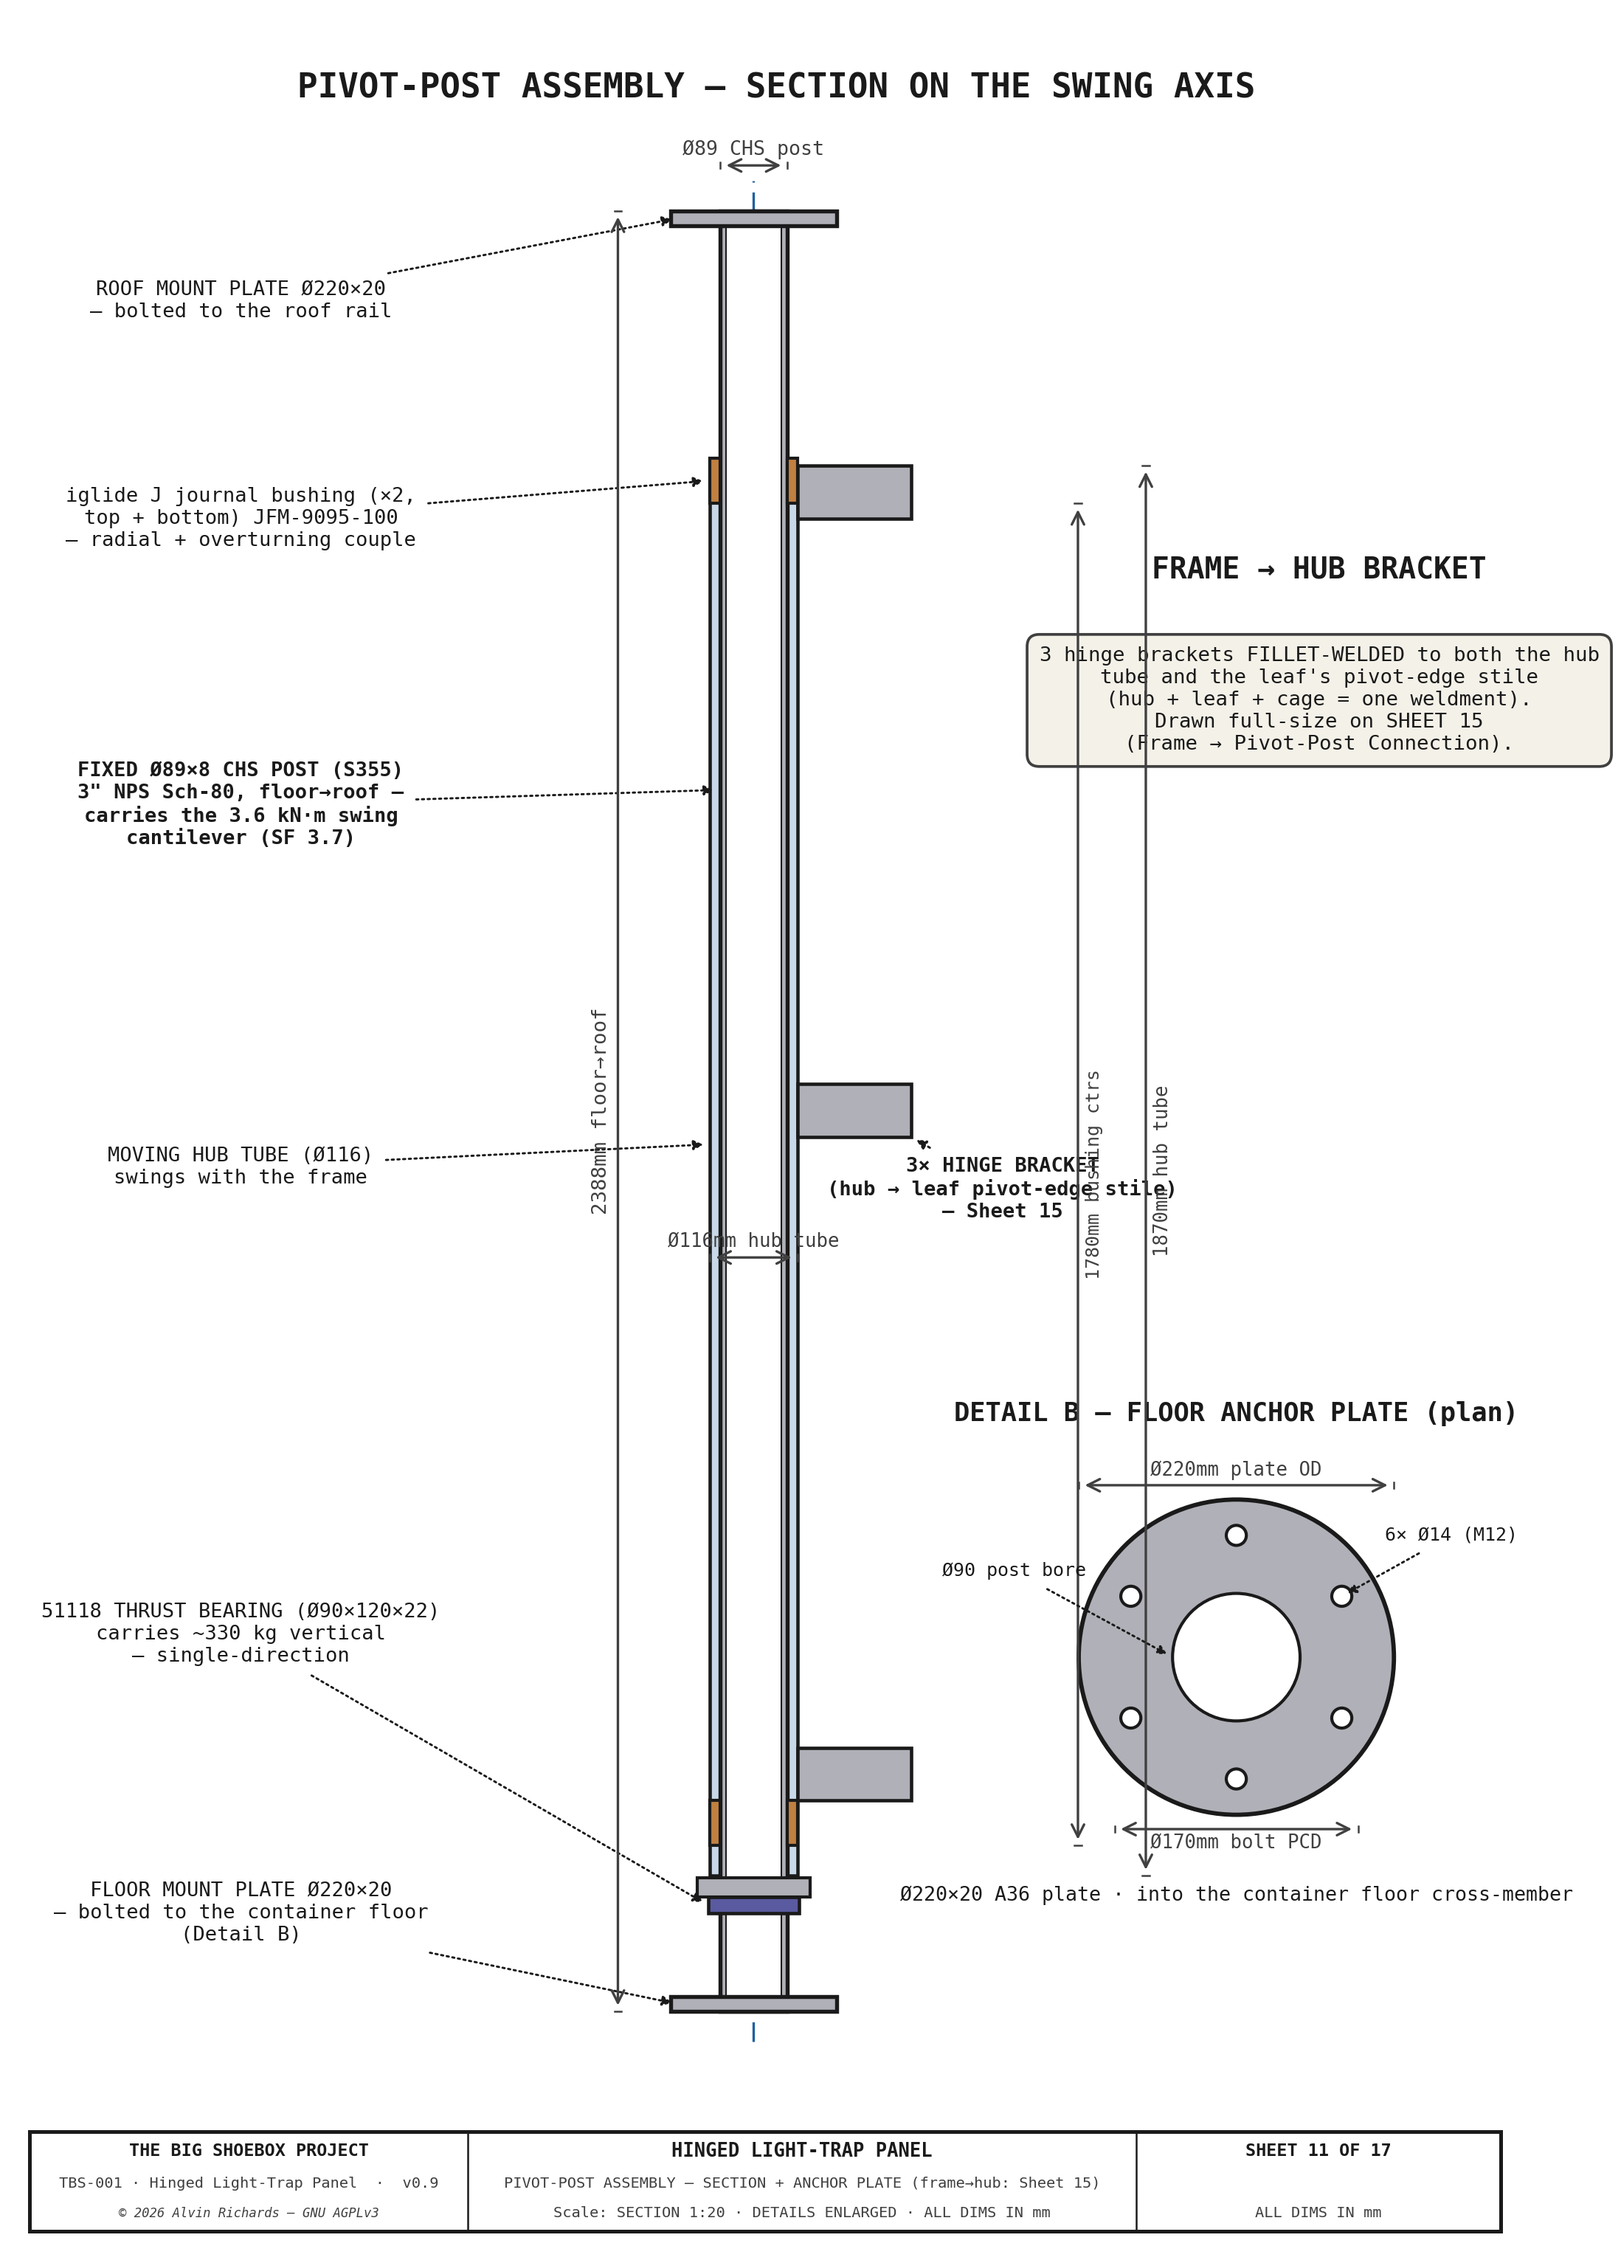
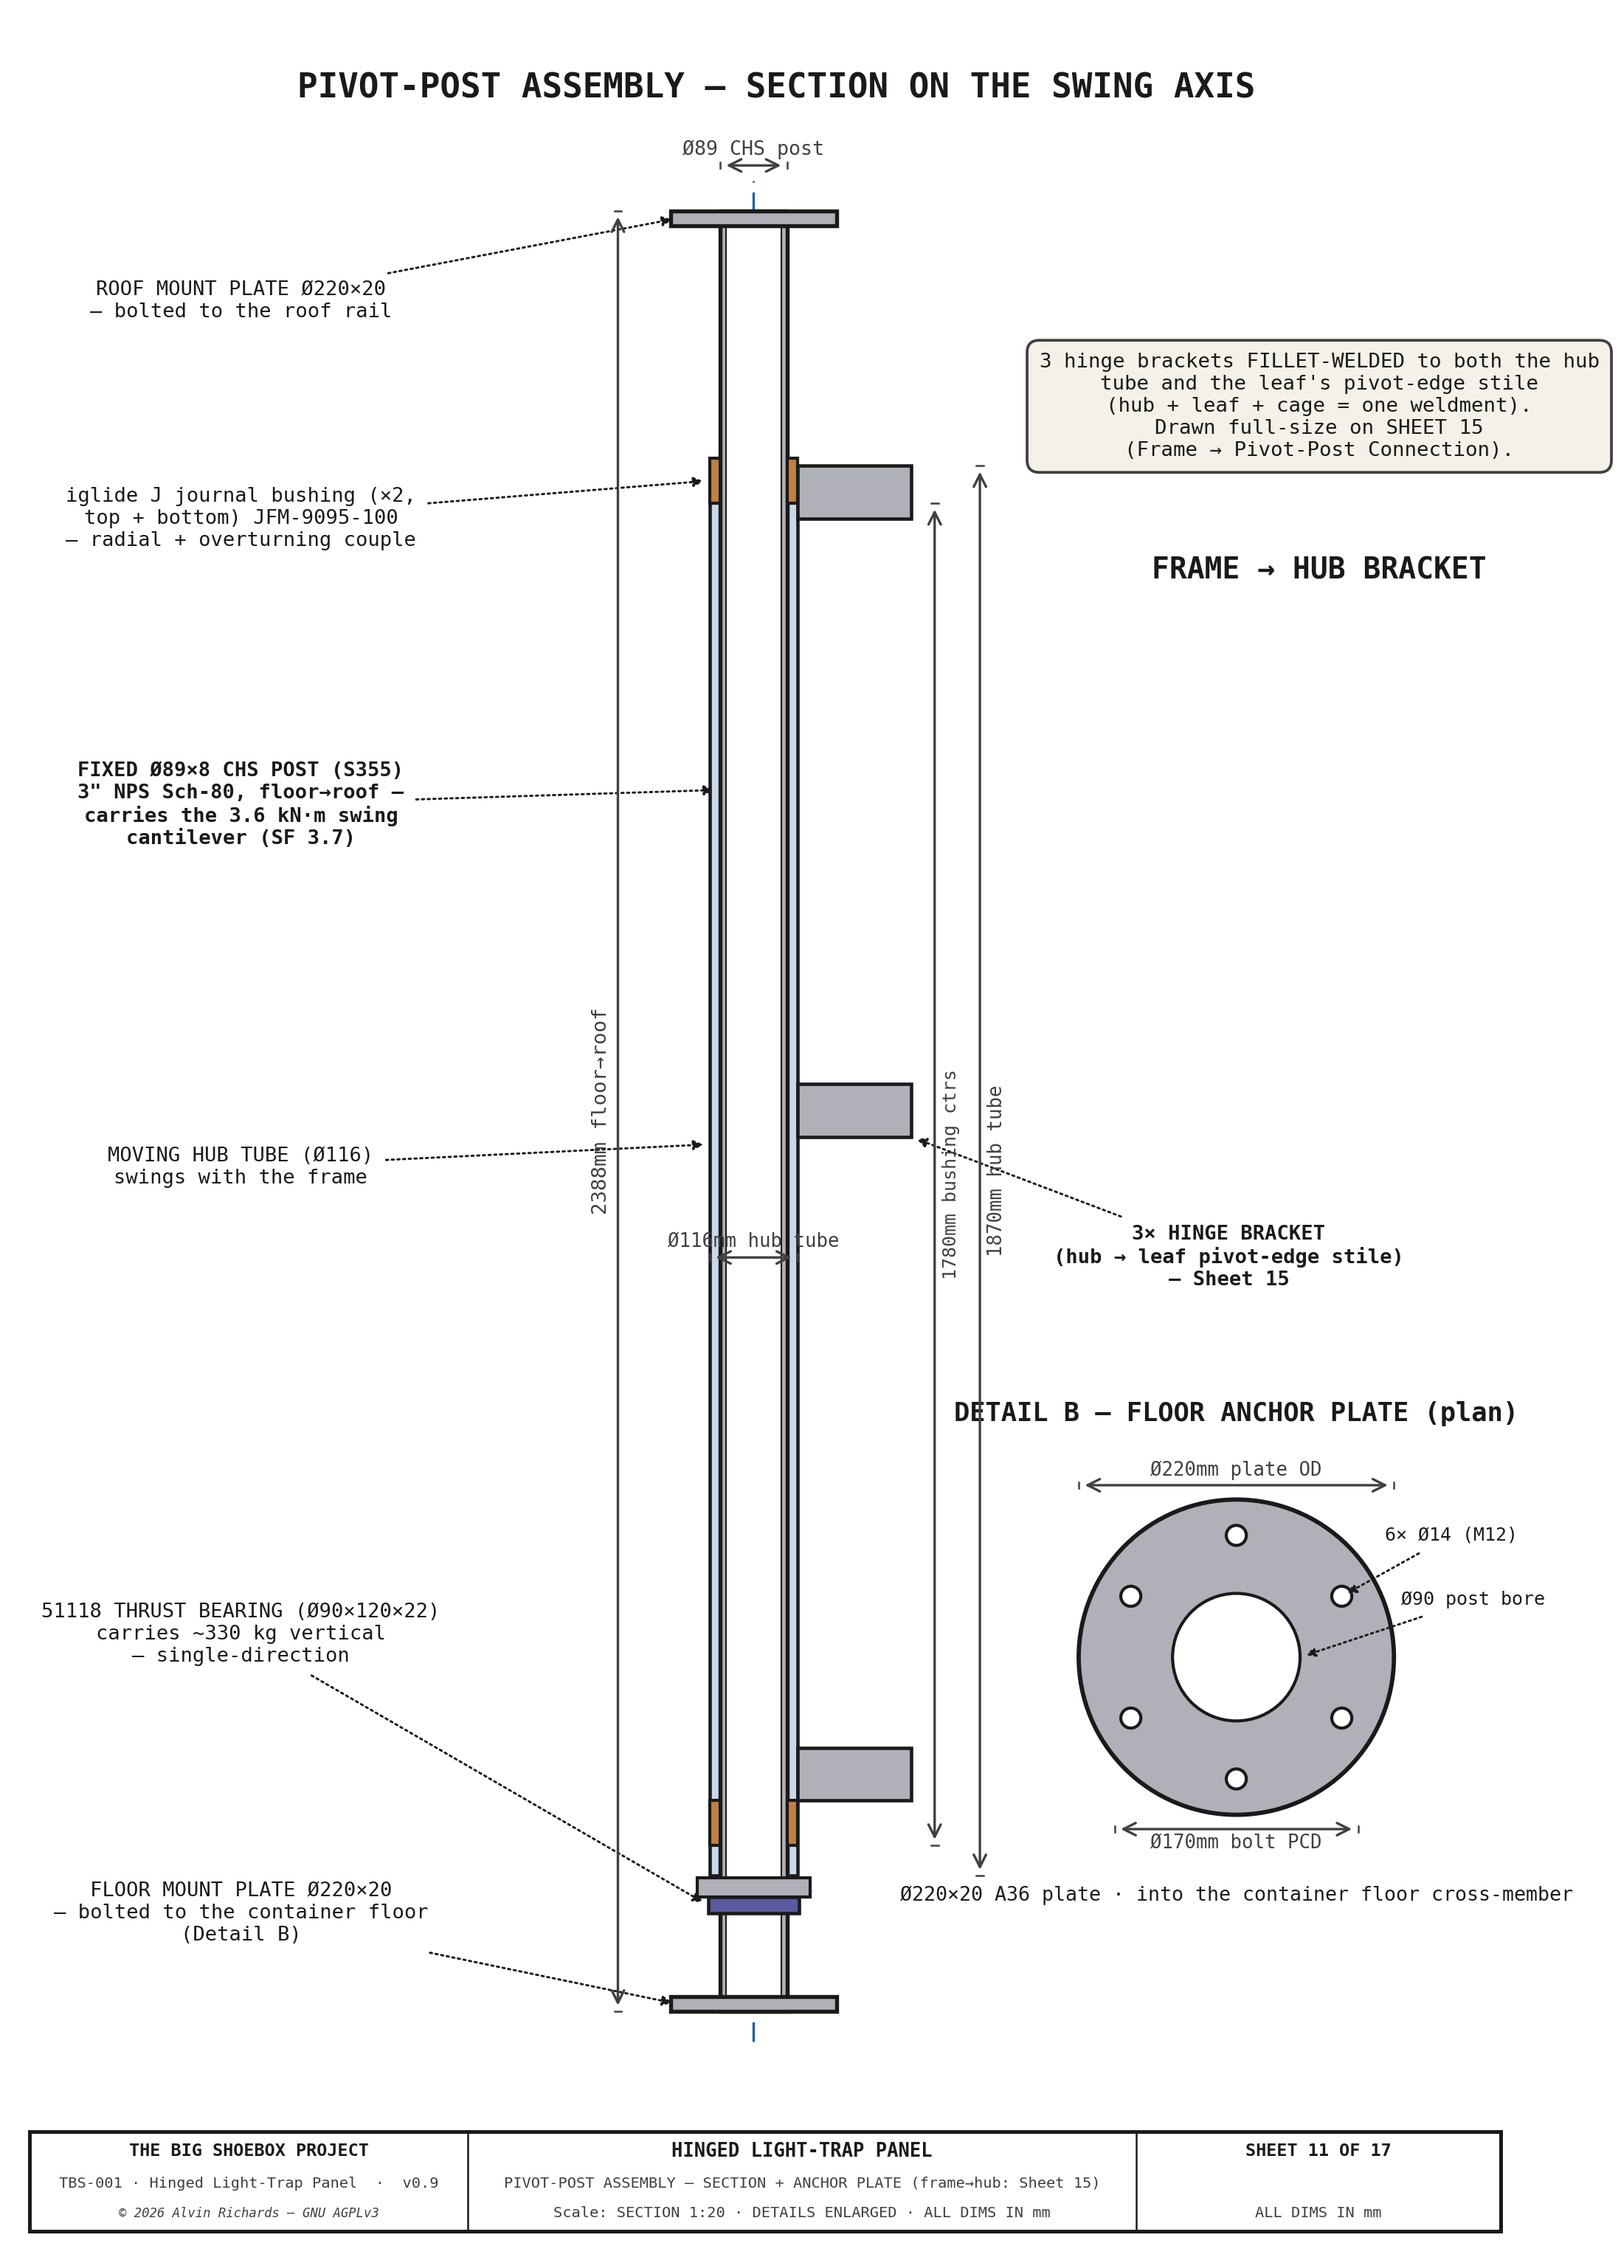
Tidy labels

diff --git a/src/generators/generate_hingepanel_diagram.py b/src/generators/generate_hingepanel_diagram.py
@@ -2291,17 +2291,17 @@ def sheet11():
     # 3 frame→hub hinge brackets (on the +X side, toward the frame)
     for z in (300, 1180, 2000):
         ax.add_patch(Rectangle((cx + R + 14, z - 20), 150, 70, fc=C_STEEL, ec=C_OUT, lw=1.1, zorder=6))
-    leader(ax, (cx + R + 164, 1160), (cx + 330, 1090), "3× HINGE BRACKET\n(hub → leaf pivot-edge stile)\n— Sheet 15", col=C_OUT, fw="bold")
+    leader(ax, (cx + R + 164, 1160), (cx + 630, 1000), "3× HINGE BRACKET\n(hub → leaf pivot-edge stile)\n— Sheet 15", col=C_OUT, fw="bold")
     draw_dim_v(ax, cx - 180, 0, HGT, f"{HGT}mm floor→roof", offset=16, fs=6.6, font=FONT)
     # diameters (dim_h) + component lengths (dim_v) on the pivot post
     draw_dim_h(ax, cx - R, cx + R, HGT + 60, f"Ø{PIVOT_POST_OD:.0f} CHS post", offset=14, fs=6.4, font=FONT)
     draw_dim_h(ax, cx - R - 14, cx + R + 14, 1000, "Ø116mm hub tube", offset=14, fs=6.2, font=FONT)  # Ø220 plate OD is dimensioned in Detail B
-    draw_dim_v(ax, cx + 520, 180, 2050, f"{2050 - 180}mm hub tube", offset=16, fs=6.2, font=FONT, right=True)
-    draw_dim_v(ax, cx + 430, 220, 2000, f"{2000 - 220}mm bushing ctrs", offset=16, fs=6.0, font=FONT, right=True)
+    draw_dim_v(ax, cx + 300, 180, 2050, f"{2050 - 180}mm hub tube", offset=16, fs=6.2, font=FONT, right=True)
+    draw_dim_v(ax, cx + 240, 220, 2000, f"{2000 - 220}mm bushing ctrs", offset=16, fs=6.0, font=FONT, right=True)
 
     # ── RIGHT: frame→hub bracket is detailed on its own sheet ─────────────────
     ax.text(1000, 1900, "FRAME → HUB BRACKET", ha="center", fontsize=9.5, fontweight="bold", color=C_OUT, **FONT)
-    ax.text(1000, 1810, "3 hinge brackets FILLET-WELDED to both the hub\ntube and the leaf's pivot-edge stile\n(hub + leaf + cage = one weldment).\nDrawn full-size on SHEET 15\n(Frame → Pivot-Post Connection).",
+    ax.text(1000, 2200, "3 hinge brackets FILLET-WELDED to both the hub\ntube and the leaf's pivot-edge stile\n(hub + leaf + cage = one weldment).\nDrawn full-size on SHEET 15\n(Frame → Pivot-Post Connection).",
             ha="center", va="top", fontsize=6.6, color=C_OUT, **FONT,
             bbox=dict(boxstyle="round,pad=0.6", fc="#F4F1E8", ec=C_DIM, lw=0.9))
 
@@ -2316,7 +2316,7 @@ def sheet11():
     # dimensions: plate OD, bolt PCD, post bore, hole size
     draw_dim_h(ax, bx0 - 110 * sB, bx0 + 110 * sB, by0 + 120 * sB, "Ø220mm plate OD", offset=12, fs=6.2, font=FONT)
     draw_dim_h(ax, bx0 - 85 * sB, bx0 + 85 * sB, by0 - 120 * sB, "Ø170mm bolt PCD", offset=12, fs=6.2, font=FONT, above=False)
-    leader(ax, (bx0 - R * sB, by0), (bx0 - 155 * sB, by0 + 60 * sB), "Ø90 post bore", col=C_OUT, fs=6)
+    leader(ax, (bx0 + R * sB, by0), (bx0 + 165 * sB, by0 + 40 * sB), "Ø90 post bore", col=C_OUT, fs=6)
     leader(ax, (bx0 + 85 * sB * math.cos(math.radians(30)), by0 + 85 * sB * math.sin(math.radians(30))),
            (bx0 + 150 * sB, by0 + 85 * sB), "6× Ø14 (M12)", col=C_OUT, fs=6)
     ax.text(bx0, by0 - 170 * sB, "Ø220×20 A36 plate · into the container floor cross-member",
